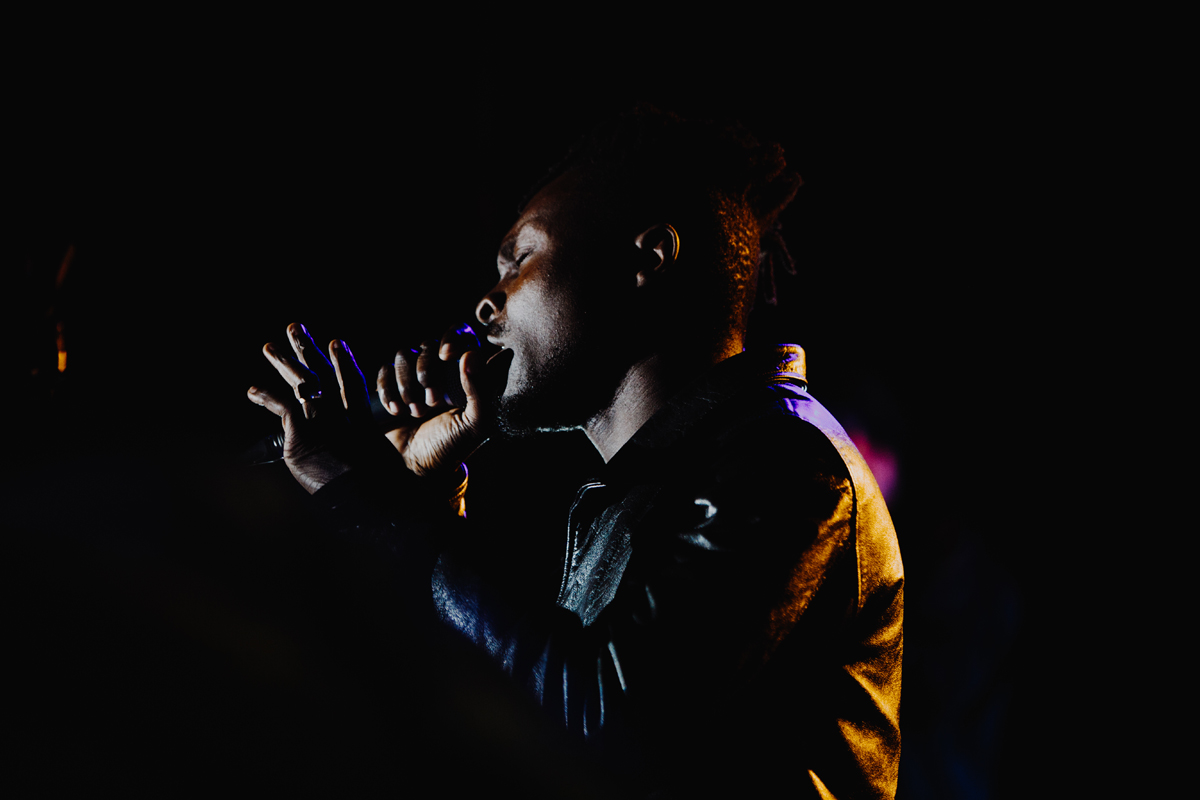
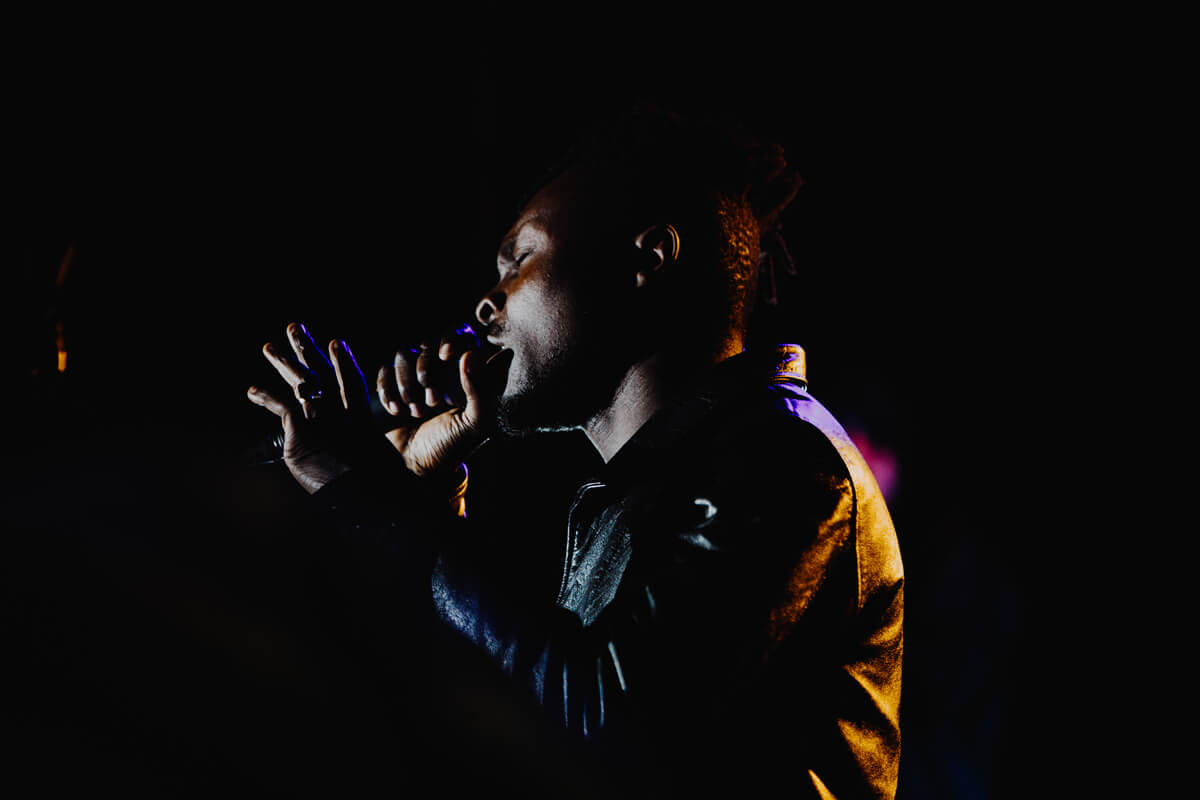
compress static photoes, fix link, fix gallery

diff --git a/src/App.vue b/src/App.vue
@@ -24,7 +24,7 @@
                 a.nav__link(href="#artists") Артисты
                 a.nav__link(href="#program") Программа
                 a.nav__link(href="#partners") Партнеры
-                a.nav__link(
+                a.nav__link.nav__link--contrast(
                   target="_blank",
                   href="https://msk.kassir.ru/frame/event/104230?key=d68c4b88-00fb-ee51-8fdd-fec9d1c99539"
                 ) Купить Билеты
@@ -37,7 +37,7 @@
               a.nav__link(href="#artists") Артисты
               a.nav__link(href="#program") Программа
               a.nav__link(href="#partners") Партнеры
-              a.nav__link(
+              a.nav__link.nav__link--contrast(
                 target="_blank",
                 href="https://msk.kassir.ru/frame/event/104230?key=d68c4b88-00fb-ee51-8fdd-fec9d1c99539"
               ) Купить Билеты
@@ -371,12 +371,7 @@ export default {
       swiperOption: {
         speed: 667,
         spaceBetween: 0,
-        freeMode: true,
         slidesPerView: 4,
-        loop: true,
-        autoplay: {
-          delay: 1000,
-        },
         observer: true,
         observeParents: true,
         breakpoints: {

diff --git a/src/styles/main.scss b/src/styles/main.scss
@@ -113,10 +113,16 @@
   margin: 16px 5px;
   font-weight: bold;
   text-align: center;
+
+  &--contrast {
+    background: white;
+    color: #038ed2;
+  }
 }
 
 .nav__link:hover {
   background: #ffde00;
+  color: #038ed2;
 }
 
 .info {
